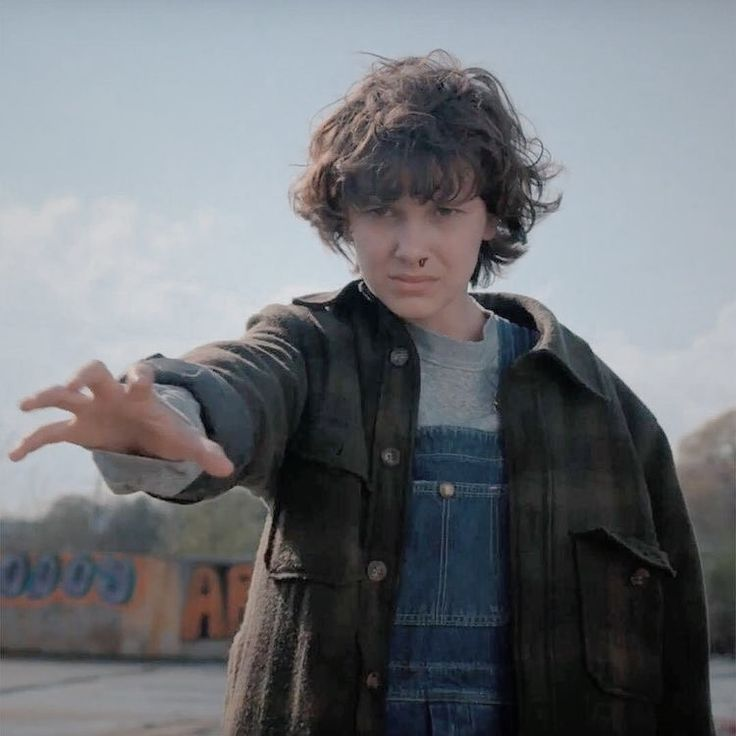
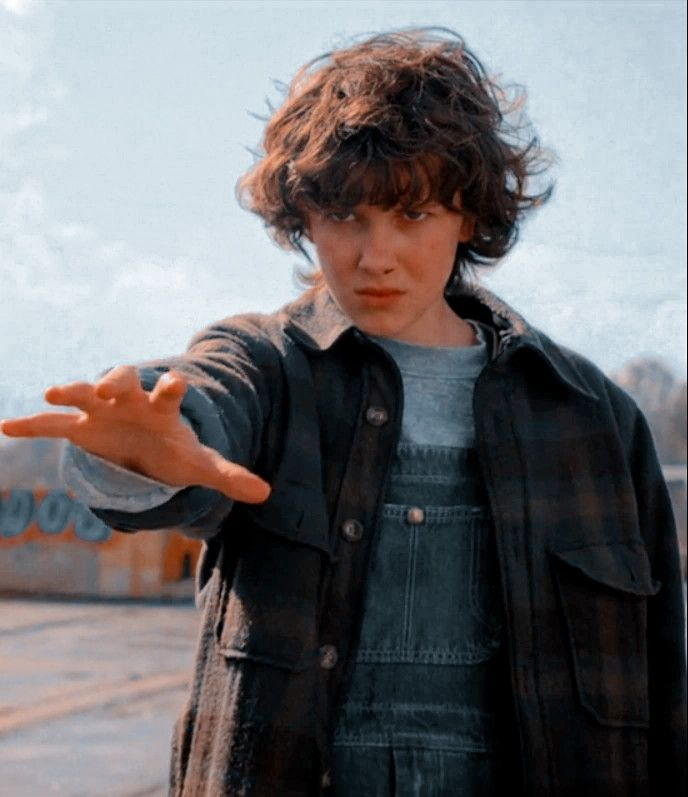
finished blog on Eleven

diff --git a/_includes/head.html b/_includes/head.html
@@ -6,9 +6,9 @@
 
   <title>
     {% if page.title == "Home" %}
-      {{ site.title }} &middot; {{ site.tagline }}
+    {{ site.title }} &middot; {{ site.tagline }}
     {% else %}
-      {{ page.title }} &middot; {{ site.title }}
+    {{ page.title }} &middot; {{ site.title }}
     {% endif %}
   </title>
 
@@ -19,19 +19,23 @@
   <link rel="stylesheet" href="{{ '/assets/css/poole.css' | relative_url }}">
   <link rel="stylesheet" href="{{ '/assets/css/syntax.css' | relative_url }}">
   <link rel="stylesheet" href="{{ '/assets/css/lanyon.css' | relative_url }}">
-  <link rel="stylesheet" href="https://fonts.googleapis.com/css?family=PT+Serif:400,400italic,700%7CPT+Sans:400">
+  <link rel="stylesheet"
+    href="https://fonts.googleapis.com/css?family=PT+Serif:400,400italic,700%7CPT+Sans:400%7CPlayfair+Display:700%7CCinzel:700%7CUnifrakturMaguntia">
 
-  <link rel="apple-touch-icon-precomposed" sizes="144x144" href="{{ '/assets/apple-touch-icon-precomposed.png' | relative_url }}">
+  <link rel="apple-touch-icon-precomposed" sizes="144x144"
+    href="{{ '/assets/apple-touch-icon-precomposed.png' | relative_url }}">
   <link rel="shortcut icon" href="{{ '/assets/strange.png' | relative_url }}">
 
   <link rel="alternate" type="application/rss+xml" title="RSS" href="{{ '/atom.xml' | relative_url }}">
 
   {% if site.google_analytics_id %}
   <script>
-    (function(i,s,o,g,r,a,m){i['GoogleAnalyticsObject']=r;i[r]=i[r]||function(){
-    (i[r].q=i[r].q||[]).push(arguments)},i[r].l=1*new Date();a=s.createElement(o),
-    m=s.getElementsByTagName(o)[0];a.async=1;a.src=g;m.parentNode.insertBefore(a,m)
-    })(window,document,'script','//www.google-analytics.com/analytics.js','ga');
+    (function (i, s, o, g, r, a, m) {
+      i['GoogleAnalyticsObject'] = r; i[r] = i[r] || function () {
+        (i[r].q = i[r].q || []).push(arguments)
+      }, i[r].l = 1 * new Date(); a = s.createElement(o),
+        m = s.getElementsByTagName(o)[0]; a.async = 1; a.src = g; m.parentNode.insertBefore(a, m)
+    })(window, document, 'script', '//www.google-analytics.com/analytics.js', 'ga');
     ga('create', '{{ site.google_analytics_id }}', 'auto');
     ga('send', 'pageview');
   </script>

diff --git a/assets/css/lanyon.css b/assets/css/lanyon.css
@@ -79,12 +79,12 @@ h1, h2, h3, h4, h5, h6 {
 }
 @media (min-width: 38em) {
   .container {
-    max-width: 32rem;
+    max-width: 48rem;
   }
 }
 @media (min-width: 56em) {
   .container {
-    max-width: 38rem;
+    max-width: 56rem;
   }
 }
 

diff --git a/_blogs/letsTalkAboutEleven.md b/_blogs/letsTalkAboutEleven.md
@@ -2,14 +2,25 @@
 layout: post
 title: "Let's Talk About Eleven"
 url: strangerThings/lets-talk-about-eleven
-date: 2026-01-01
+date: 2026-01-04
 category: quick-read
 series: stranger-things
 ---
 
-![Stranger Things - Eleven](/assets/images/stranger-things-eleven.jpg)
+<img src="/assets/images/stranger-things-eleven.jpg" alt="Stranger Things - Eleven" style="width: 40%; max-width: 700px; height: auto; display: block; margin: 20px auto;">
 
-Let's talk about Eleven, her ending in particular. Since the beginning of the show, she has been the lead character and has been my personal female character. The importance of her character was diminished to some extent in the later seasons as the party grew and fighting with the monsters involved more and more planning and team work rather than El just smoking the guns. Even then, she remained the ultimate link between Hakwins and the upside down and everything beyond. Will did finally pick up in season 5 but it is no secret that the party wouldn't have made it to season 5 if not for El. Remember her in seasons 1, 2 and 3? It took a while for her to regain power in season 4 but she was pivotal in saving Max and the rest. As I noted in my immediate thoughts, for the story of Hawkins to end, El had to die. I expected that her death will be something similar to her disappearance in season 1 (the goodbye Mike in Hawkins Middle School classroom as she sent the Demogorgon back to Abyss). I thought she would sacrifice herself in order to kill Henry and end the Mind Flayer shenanigans once and for all. What happened was completely different. 
+<div style="margin-top: 50px;"></div>
+
+<span style="float: left; font-size: 4.5em; line-height: 0.8; margin: 0.05em 0.1em 0 0; font-family: 'UnifrakturMaguntia', serif; font-weight: 700; color: #313131; text-shadow: 1px 1px 1px rgba(0,0,0,0.1);">L</span>et's talk about *Eleven*. Since the beginning of the show, she has been the lead character and has been my favorite female character. The importance of her character was diminished to some extent in the later seasons as the party grew and fighting with the monsters involved more and more planning and teamwork, rather than El just shooting the guns. Even then, she remained the ultimate link between Hawkins and the Upside Down and everything beyond. Will finally picked up in season 5, but it is no secret that the party wouldn't have made it to season 5 if not for El. Remember her in seasons 1, 2 and 3? It took a while for her to regain power in season 4, but she was pivotal in saving Max and the rest. As I noted in my immediate thoughts, for the story of Hawkins to end, El had to die. I expected that her death will be something similar to her disappearance in season 1 (the *goodbye Mike* in Hawkins Middle School classroom as she sent the Demogorgon back to Abyss). I thought she would sacrifice herself to kill Henry and end the Mind Flayer shenanigans once and for all. What happened was completely different. 
 <br>
 
-Let's first look at what everyone thinks happened. The party kills Henry, defeats the Mind Flayer. Murray sets off the bomb and everyone makes their way out of the upside down through the mother gate at MAC-Z. We see El beside Mike the whole time. Military was waiting for them and they catch them all, only to find that El has jumped down the trunk and is standing in the upside down at the edge of the portal. She says her goodbye to Mike and to everyone and finally her story ends with the collapse of the upside down. This story fits well with what El and Kali had discussed. There is no way things could've gone back to normal had Kay got hold of Eleven. But, it has major flaws in it. To start with, how did Eleven dodge everyone and get inside the upside down? It is very clear that the trunk door was closed before soldiers opened it and one soldier is seen taking El out of the truck too. How did she get past that soldier and run through the gate and go in the upside down. There is another question too. How did El use her powers to talk to Mike inside her mind with all the sonic booms (the unexplained antennas that stops her from using her powers) pointed right at her? There is one more point that people have pointed out, why isn't her nose bleeding when she is using her powers for one last time? This is very subtle thing but the ones above are major arguments against the first story.
+Let's first take a look at what everyone thinks happened. The team kills Henry and defeats the Mind Flayer. Murray starts the bomb timer, and everyone makes their way out of the Upside Down through the mother gate at MAC-Z. We see El beside Mike the whole time. I cannot help but wonder how they did not expect the military to be waiting for them. Why could they not have come out through some other gate? Why didn't Hopper think it through? Military catches them all, only to find that El had somehow escaped and was standing in the Upside Down at the edge of the gate. She says goodbye to Mike and to everyone, and finally, she vanishes with the collapse of the Upside Down. 
+<br>
+
+This story fits well with El and Kali's conversation and how the military sees them only as weapons. There is no way things could've gone back to normal had Dr. Kay got hold of Eleven and instead had Eleven escaped, she would be running away from the US military her whole life. The story has major flaws, though. To start with, how did Eleven dodge everyone and get inside the Upside Down? The truck door was closed before soldiers opened it, and one soldier is seen taking El out of the truck too. How did she get past everyone and run through the gate? How did El use her powers to talk to Mike inside her mind with all the sonic booms (the unexplained antennas that stop her from using her powers) pointed right at her? Finally, why isn't her nose bleeding when she is using her powers for one last time? These are important questions, and the show just doesn't answer them. 
+<br>
+
+Now, let's look at Mike's theory. This seems to be the fan favorite. So basically, everything everyone saw about El dying with the Upside Down collapsing was a spell cast by Kali. El escaped the soldiers and made her way out through the tunnels. Once she was sufficiently far from the antennas, she used her powers to talk to Mike. As per the Epilogue, she ran away from everything without being caught, and it is not clear what happened to her. There are some major observations that support this theory. Well, it explains all three questions above. Further, as people have pointed out, when Kali is shot, El tries to stop the bleeding, and her hands are covered in blood. But when she comes to the lab rooftop, there is no blood on her hands. This in itself is not a strong argument, but it is something. Kali might have faked bleeding to make Hopper believe that she is dead, but then how come Hop did not notice blood in El's hand just vanishing? 
+<br>
+
+Both possibilities have their strengths and weaknesses, and having considered them, the second one does seem more likely to have occurred. The big question is, what happens after the escape? Has the military captured her, and is that why they let everyone go? If not, where is Eleven now? How did she escape Hawkins? There are a lot of questions that we will never know the answers to. From a logical perspective, Eleven's death is the only way to end the show, but of all the kids, she deserved to get a better ending than that. Maybe El is living somewhere with at least three waterfalls; we will never know.

diff --git a/_blogs/finaleFirstThoughts.md b/_blogs/finaleFirstThoughts.md
@@ -7,7 +7,9 @@ category: quick-read
 series: stranger-things
 ---
 
-Today is Jan the 1st, 2026. **Stranger Things**, the netflix show about a group of friends (and their parents) beating demons from another dimension has ended. Technically, if I take the wormhole theory, the *Abyss* is just another part of out own universe which is connected to our part of the universe thorugh the *bridge* aka the *upside down*. I just finished the final epiosode and I am filled with all kinds of emotions; a lot of nostalgia. I discovered this show in late 2020, post the covid lockdown period and I have been following this show ever since. 
+<img src="/assets/images/stranger-things-title3.jpg" alt="Stranger Things - Finale" style="width: 60%; max-width: 700px; height: auto; display: block; margin: 20px auto;">
+
+<span style="float: left; font-size: 4.5em; line-height: 0.8; margin: 0.05em 0.1em 0 0; font-family: 'UnifrakturMaguntia', serif; font-weight: 700; color: #313131; text-shadow: 1px 1px 1px rgba(0,0,0,0.1);">T</span>oday is Jan the 1st, 2026. **Stranger Things**, the netflix show about a group of friends (and their parents) beating demons from another dimension has ended. Technically, if I take the wormhole theory, the *Abyss* is just another part of out own universe which is connected to our part of the universe thorugh the *bridge* aka the *upside down*. I just finished the final epiosode and I am filled with all kinds of emotions; a lot of nostalgia. I discovered this show in late 2020, post the covid lockdown period and I have been following this show ever since. 
 <br>
 
 Personally, there are a lot of plot holes in the show, especially in the final season but I think scientific accuracy is not the right lens to assess this show through. Over time, my friends, my cousins and my family got picked up by the show and we are a bunch of *ST Nerds* discussing about the show with so much enthusiasm. I feel like the show has really been an important part of my growth over the last 5 years.
